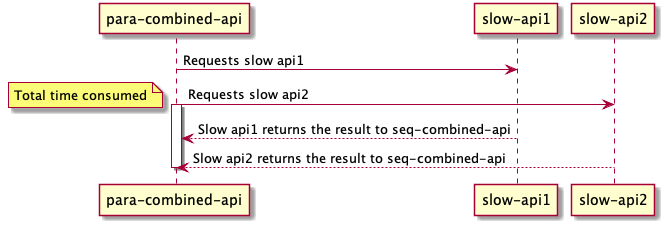
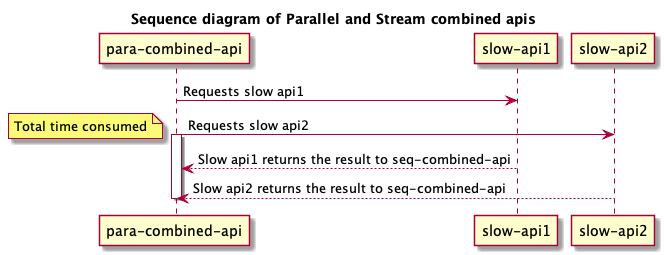
finished the README.md

diff --git a/README.md b/README.md
@@ -3,17 +3,73 @@ This project, based on Java 8 and Spring boot, is to learn and demostrate the di
 
 # The structure of the apis
 
-<img src="./src/docs/images/overall.png"/>
+![Over all](src/docs/images/overall.png)
 
-1. A slow api, which sleeps for 2 seconds, is located in /legacy/slow/{id}. {id} can be any Integer number in order to represent to different apis.
-2. Other three apis /seq/combined, /parallel/combined, /webflux/combined are represented for a combined api, which combine the backend apis in a different way.
-  1. For simplify the example, they all call the slow api twice with different paramerters 1 and 2;
-  2. /seq/combined calls the slow apis by sequence way;
-  3. /parallel/combined calls the slow apis by parallel way(Asychronous by using akhttp);
-  4. /webflux/combined calls the slow apis by reactive way(Stream by using spring-webflux);
+* A slow api, which sleeps for 2 seconds, is located in `/legacy/slow/{id}`. `{id}` can be any Integer number in order to represent to different apis.
+* Other three apis `/seq/combined`, `/parallel/combined`, `/webflux/combined` are represented for a combined api, which combine the backend apis in a different way.
+  * For simplify the example, they all call the slow api twice with different paramerters 1 and 2;
+  * `/seq/combined` calls the slow apis by sequence way;
+  * `/parallel/combined` calls the slow apis by parallel way(Asychronous by using [okhttp](https://github.com/square/okhttp/));
+  * `/webflux/combined` calls the slow apis by reactive way(Stream by using [spring-webflux](https://docs.spring.io/spring/docs/current/spring-framework-reference/web-reactive.html));
 
-<img src="src/docs/uml/seq.png"/>
-Sequence diagram of Sequence combined api
+![Sequence diagram of Sequence combined api](src/docs/uml/seq.png)
 
-<img src="src/docs/uml/parallel-stream.png"/>
-Sequence diagram of Parallel and Stream combined apis
+![Sequence diagram of Parallel and Stream combined apis](src/docs/uml/parallel-stream.png)
+
+Obviously, the total time cost is the longest time of one of the backend apis in parallel and reactive architecture, rather than the sum time for every apis in sequential system.
+
+```$shell
+ELE-MacBook-Pro:parallel ele$ time curl -Is localhost:8080/seq/combined > /dev/null
+
+real	0m4.033s
+user	0m0.006s
+sys	0m0.006s
+ELE-MacBook-Pro:parallel ele$ time curl -Is localhost:8080/parallel/combined > /dev/null
+
+real	0m2.060s
+user	0m0.006s
+sys	0m0.006s
+ELE-MacBook-Pro:parallel ele$ time curl -Is localhost:8080/webflux/combined > /dev/null
+
+real	0m2.051s
+user	0m0.006s
+sys	0m0.006s
+```
+
+# The performance
+
+I did a benchmark on my laptop, and the data was collected below.
+
+* The computer, CPU: 2.7 GHz Intel Core i7, Memory: 16 GB 1600 MHz DDR3
+* Jvm parameters, `-Xms1G -Xmx2G`
+* Use [Apache Benchmark](https://httpd.apache.org/docs/2.4/programs/ab.html) to request the apis with two specs. `-c 10 -n 200` is currency 10 and total number 200 requests, and `-c 100 -n 2000` is currency 100 and total number 2000 requests
+
+Here are some overview indicators, and details are listed below the table.
+
+| &nbsp;        | &nbsp;        | Sequcence           | Parallel  | Reactive  |
+| ------------- | ------------- |:-------------:| -----:| -----:|
+| -c 10 -n 200  | Time taken     | 84.617 | 43.387 | 43.726 |
+| &nbsp;  | Maximum Thread number    | 41 | 651 | 58 |
+| &nbsp;  | Peak Heap Memeory     | 200Mb | 349mb | 160Mb |
+| -c 100 -n 2000  | Time taken     | 84.718 | - | 71.388 |
+| &nbsp;  | Maximum Thread number    | 219 | 3100 | 226 |
+| &nbsp;  | Peak Heap Memeory     | 300Mb | 550Mb | 510Mb |
+
+### The performance of Sequence api 
+With `-c 10 -n 200`, time taken for tests:   `84.617 seconds`
+![seq-c10-n200](src/docs/images/seq-c10-n200.png)
+
+With `-c 100 -n 2000`, time taken for tests:   `84.718 seconds`
+![seq-c10-n200](src/docs/images/seq-c100-n2000.png)
+### The performance of parallel api
+With `-c 10 -n 200`, time taken for tests:   `43.387 seconds`
+![para-c10-n200](src/docs/images/para-c10-n200.png)
+
+With `-c 100 -n 2000`, the `ab` crashed until finished `898` requests completed
+![para-c100-n2000](src/docs/images/para-c100-n2000.png)
+
+### The performance of reactive api
+With `-c 10 -n 200`, time taken for tests:   `43.726 seconds`
+![reactive-c10-n200](src/docs/images/reactive-c10-n200.png)
+With `-c 100 -n 2000`, time taken for tests:   `71.388 seconds`
+![reactive-c100-n2000](src/docs/images/reactive-c100-n2000.png)
